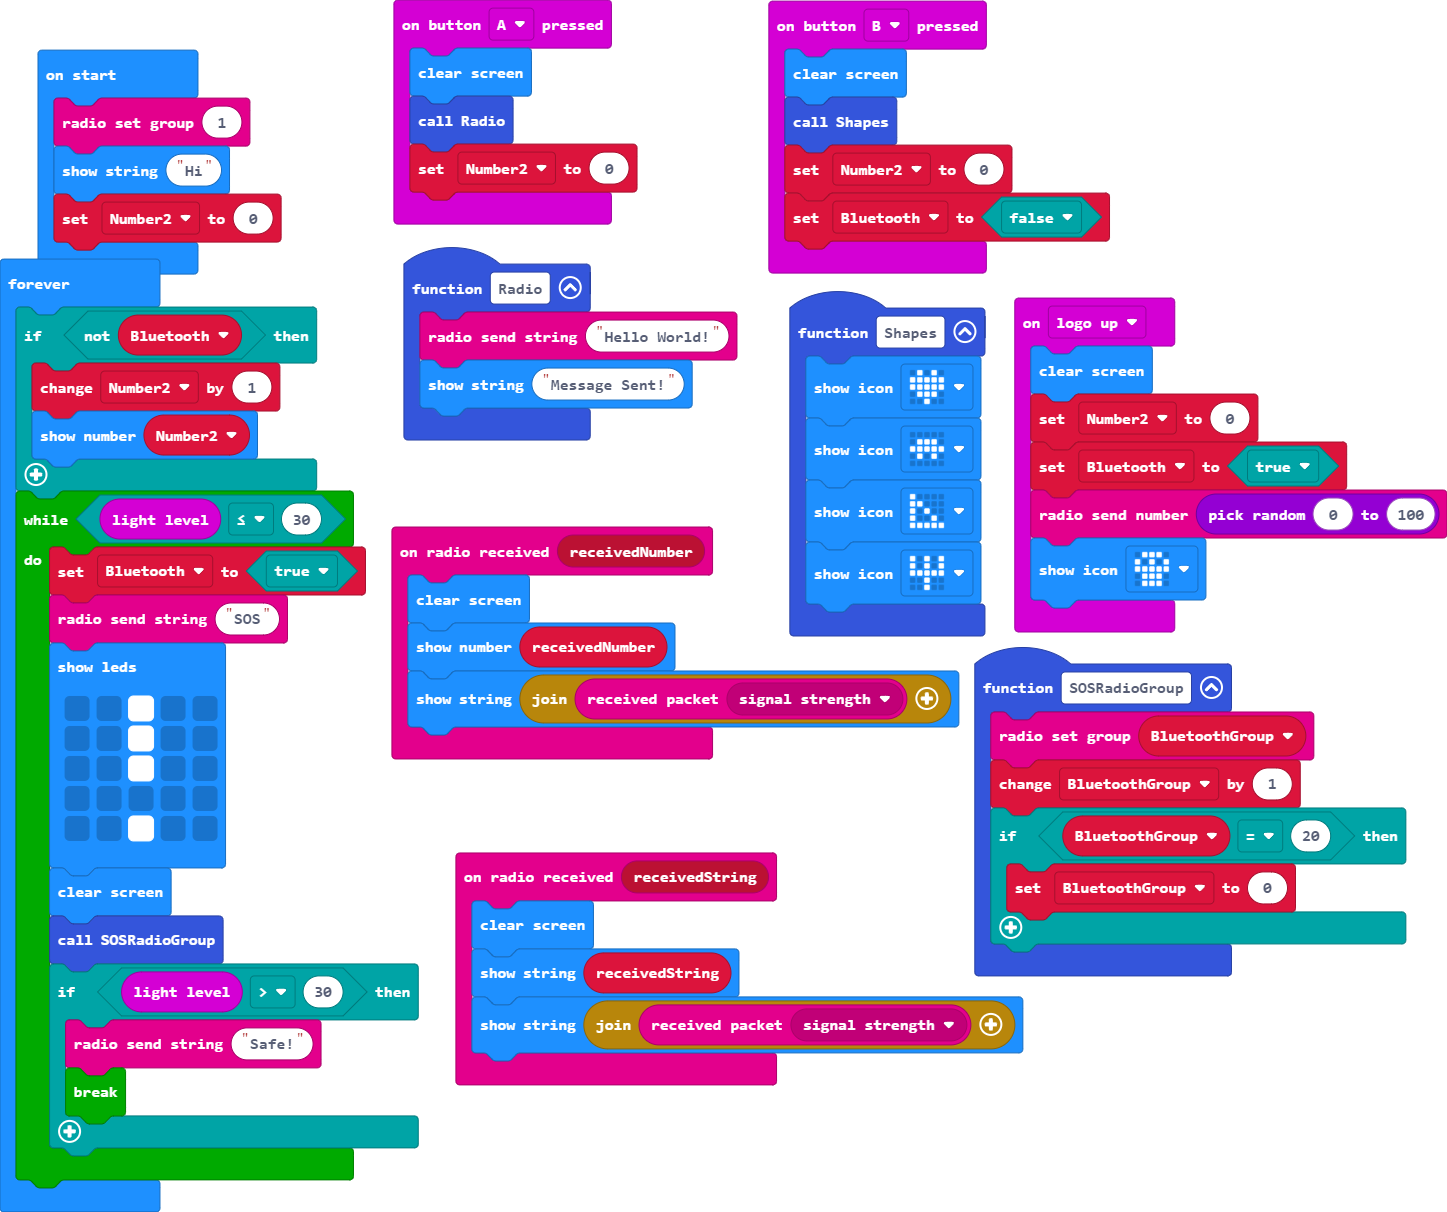
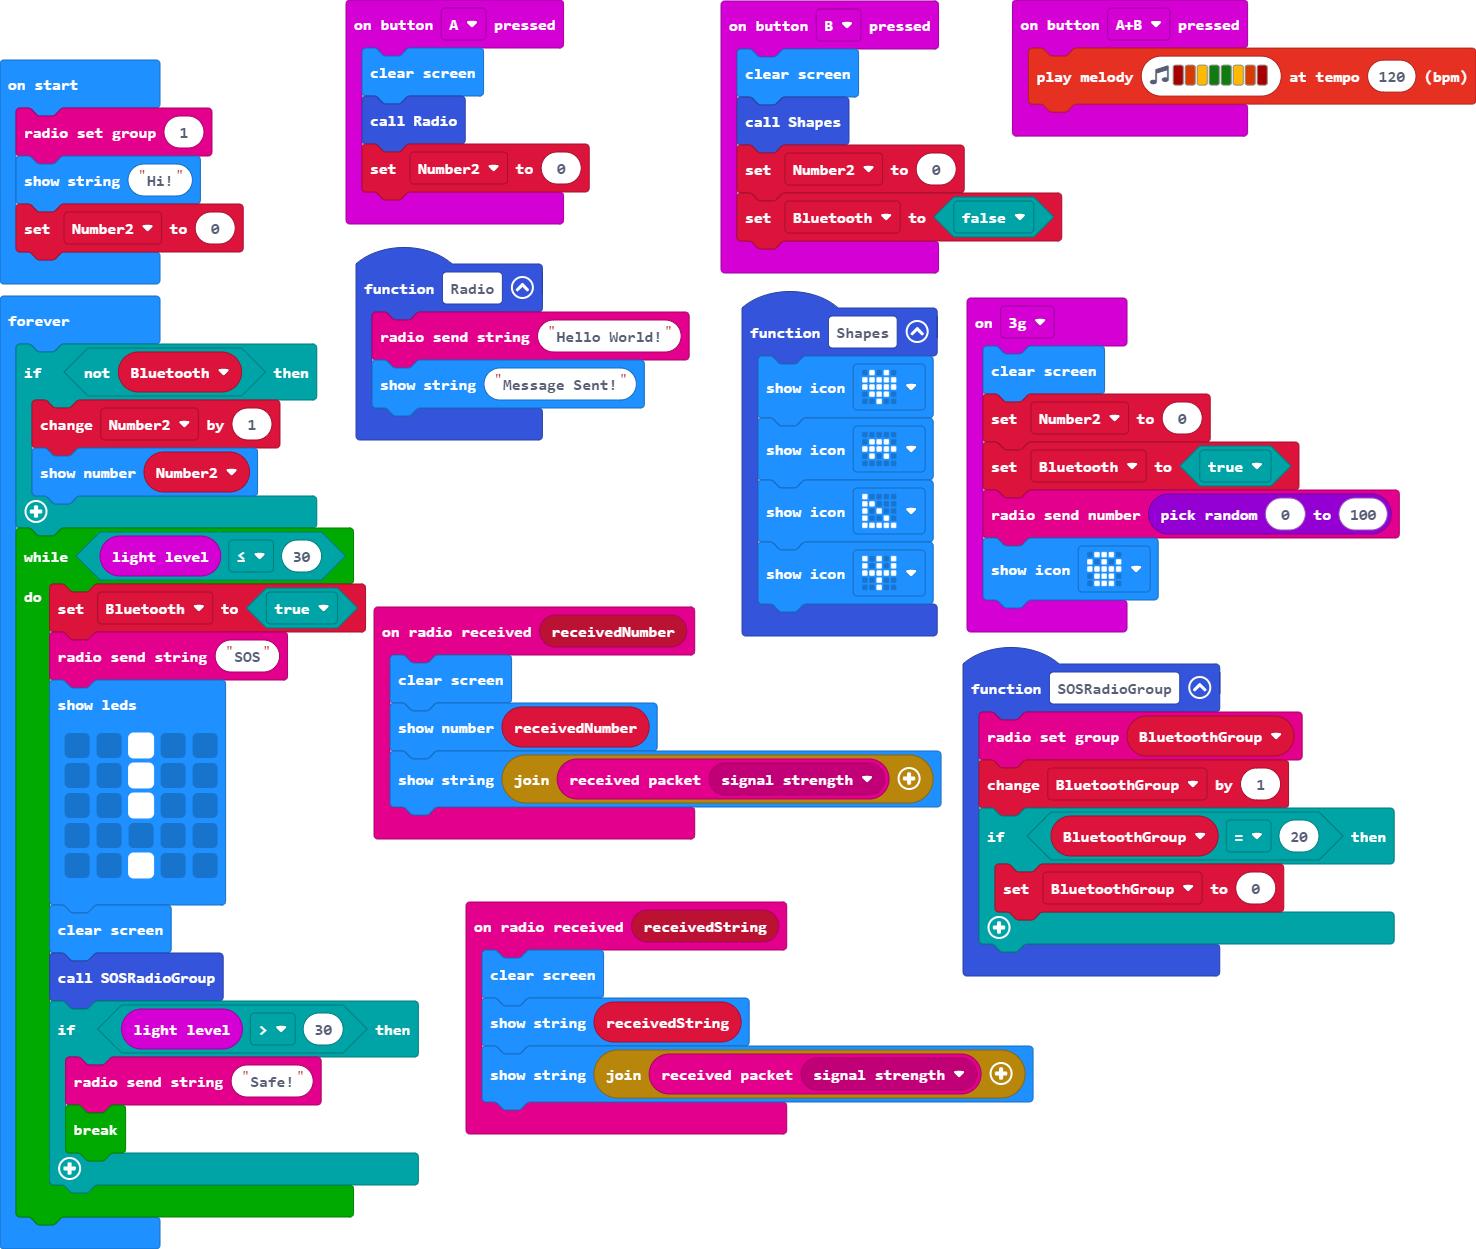
added audio

diff --git a/main.ts b/main.ts
@@ -1,85 +1,77 @@
-function SOSRadioGroup() {
-    
+function SOSRadioGroup () {
     radio.setGroup(BluetoothGroup)
     BluetoothGroup += 1
     if (BluetoothGroup == 20) {
         BluetoothGroup = 0
     }
-    
 }
-
-radio.onReceivedNumber(function on_received_number(receivedNumber: number) {
+radio.onReceivedNumber(function (receivedNumber) {
     basic.clearScreen()
     basic.showNumber(receivedNumber)
-    basic.showString("" + ("" + radio.receivedPacket(RadioPacketProperty.SignalStrength)))
+    basic.showString("" + radio.receivedPacket(RadioPacketProperty.SignalStrength))
 })
-input.onButtonPressed(Button.A, function on_button_pressed_a() {
-    
+input.onButtonPressed(Button.A, function () {
     basic.clearScreen()
     Radio()
     Number2 = 0
 })
-input.onGesture(Gesture.LogoUp, function on_gesture_logo_up() {
-    
+function Shapes () {
+    basic.showIcon(IconNames.Heart)
+    basic.showIcon(IconNames.Tortoise)
+    basic.showIcon(IconNames.LeftTriangle)
+    basic.showIcon(IconNames.Pitchfork)
+}
+input.onButtonPressed(Button.AB, function () {
+    music.playMelody("C5 B A G G A B C5 ", 120)
+})
+radio.onReceivedString(function (receivedString) {
+    basic.clearScreen()
+    basic.showString(receivedString)
+    basic.showString("" + radio.receivedPacket(RadioPacketProperty.SignalStrength))
+})
+input.onButtonPressed(Button.B, function () {
+    basic.clearScreen()
+    Shapes()
+    Number2 = 0
+    Bluetooth = false
+})
+function Radio () {
+    radio.sendString("Hello World!")
+    basic.showString("Message Sent!")
+}
+input.onGesture(Gesture.ThreeG, function () {
     basic.clearScreen()
     Number2 = 0
     Bluetooth = true
     radio.sendNumber(randint(0, 100))
     basic.showIcon(IconNames.Skull)
 })
-function Shapes() {
-    basic.showIcon(IconNames.Heart)
-    basic.showIcon(IconNames.Tortoise)
-    basic.showIcon(IconNames.LeftTriangle)
-    basic.showIcon(IconNames.Pitchfork)
-}
-
-radio.onReceivedString(function on_received_string(receivedString: string) {
-    basic.clearScreen()
-    basic.showString(receivedString)
-    basic.showString("" + ("" + radio.receivedPacket(RadioPacketProperty.SignalStrength)))
-})
-input.onButtonPressed(Button.B, function on_button_pressed_b() {
-    
-    basic.clearScreen()
-    Shapes()
-    Number2 = 0
-    Bluetooth = false
-})
-function Radio() {
-    radio.sendString("Hello World!")
-    basic.showString("Message Sent!")
-}
-
 let Bluetooth = false
 let BluetoothGroup = 0
 let Number2 = 0
 radio.setGroup(1)
-basic.showString("Hi")
+basic.showString("Hi!")
 Number2 = 0
-basic.forever(function on_forever() {
-    
-    if (!Bluetooth) {
+basic.forever(function () {
+    if (!(Bluetooth)) {
         Number2 += 1
         basic.showNumber(Number2)
     }
-    
     while (input.lightLevel() <= 30) {
         Bluetooth = true
         radio.sendString("SOS")
         basic.showLeds(`
             . . # . .
-                        . . # . .
-                        . . # . .
-                        . . . . .
-                        . . # . .
-        `)
+            . . # . .
+            . . # . .
+            . . . . .
+            . . # . .
+            `)
         basic.clearScreen()
         SOSRadioGroup()
         if (input.lightLevel() > 30) {
             radio.sendString("Safe!")
-            break
+            break;
         }
-        
     }
 })

diff --git a/main.py b/main.py
@@ -18,20 +18,15 @@ def on_button_pressed_a():
     Number2 = 0
 input.on_button_pressed(Button.A, on_button_pressed_a)
 
-def on_gesture_logo_up():
-    global Number2, Bluetooth
-    basic.clear_screen()
-    Number2 = 0
-    Bluetooth = True
-    radio.send_number(randint(0, 100))
-    basic.show_icon(IconNames.SKULL)
-input.on_gesture(Gesture.LOGO_UP, on_gesture_logo_up)
-
 def Shapes():
     basic.show_icon(IconNames.HEART)
     basic.show_icon(IconNames.TORTOISE)
     basic.show_icon(IconNames.LEFT_TRIANGLE)
     basic.show_icon(IconNames.PITCHFORK)
+
+def on_button_pressed_ab():
+    music.play_melody("C5 B A G G A B C5 ", 120)
+input.on_button_pressed(Button.AB, on_button_pressed_ab)
 
 def on_received_string(receivedString):
     basic.clear_screen()
@@ -50,11 +45,21 @@ input.on_button_pressed(Button.B, on_button_pressed_b)
 def Radio():
     radio.send_string("Hello World!")
     basic.show_string("Message Sent!")
+
+def on_gesture_three_g():
+    global Number2, Bluetooth
+    basic.clear_screen()
+    Number2 = 0
+    Bluetooth = True
+    radio.send_number(randint(0, 100))
+    basic.show_icon(IconNames.SKULL)
+input.on_gesture(Gesture.THREE_G, on_gesture_three_g)
+
 Bluetooth = False
 BluetoothGroup = 0
 Number2 = 0
 radio.set_group(1)
-basic.show_string("Hi")
+basic.show_string("Hi!")
 Number2 = 0
 
 def on_forever():
